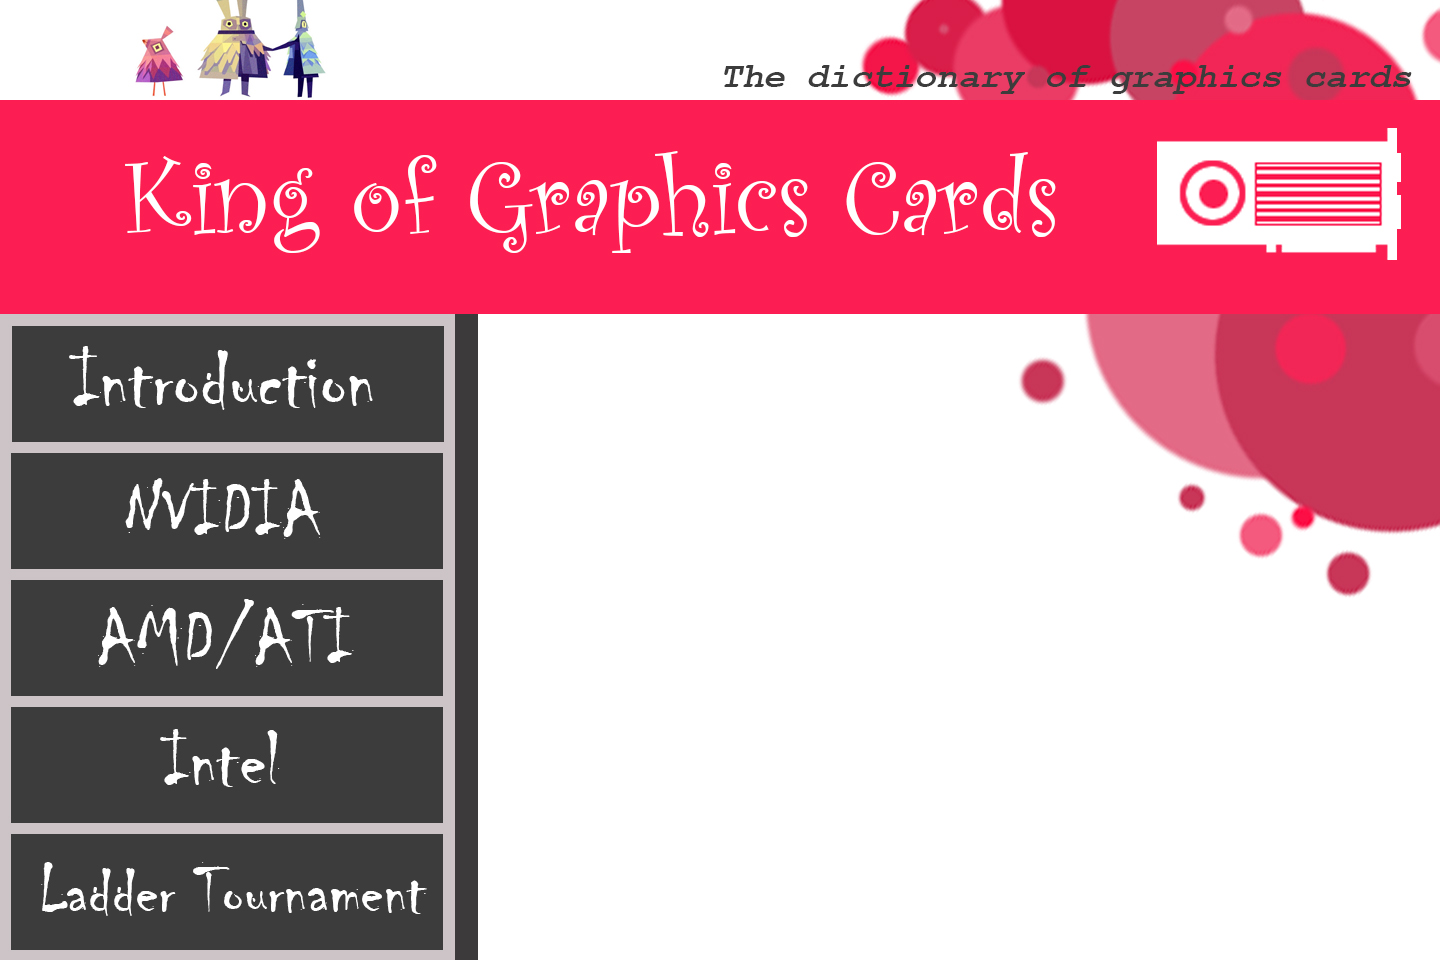
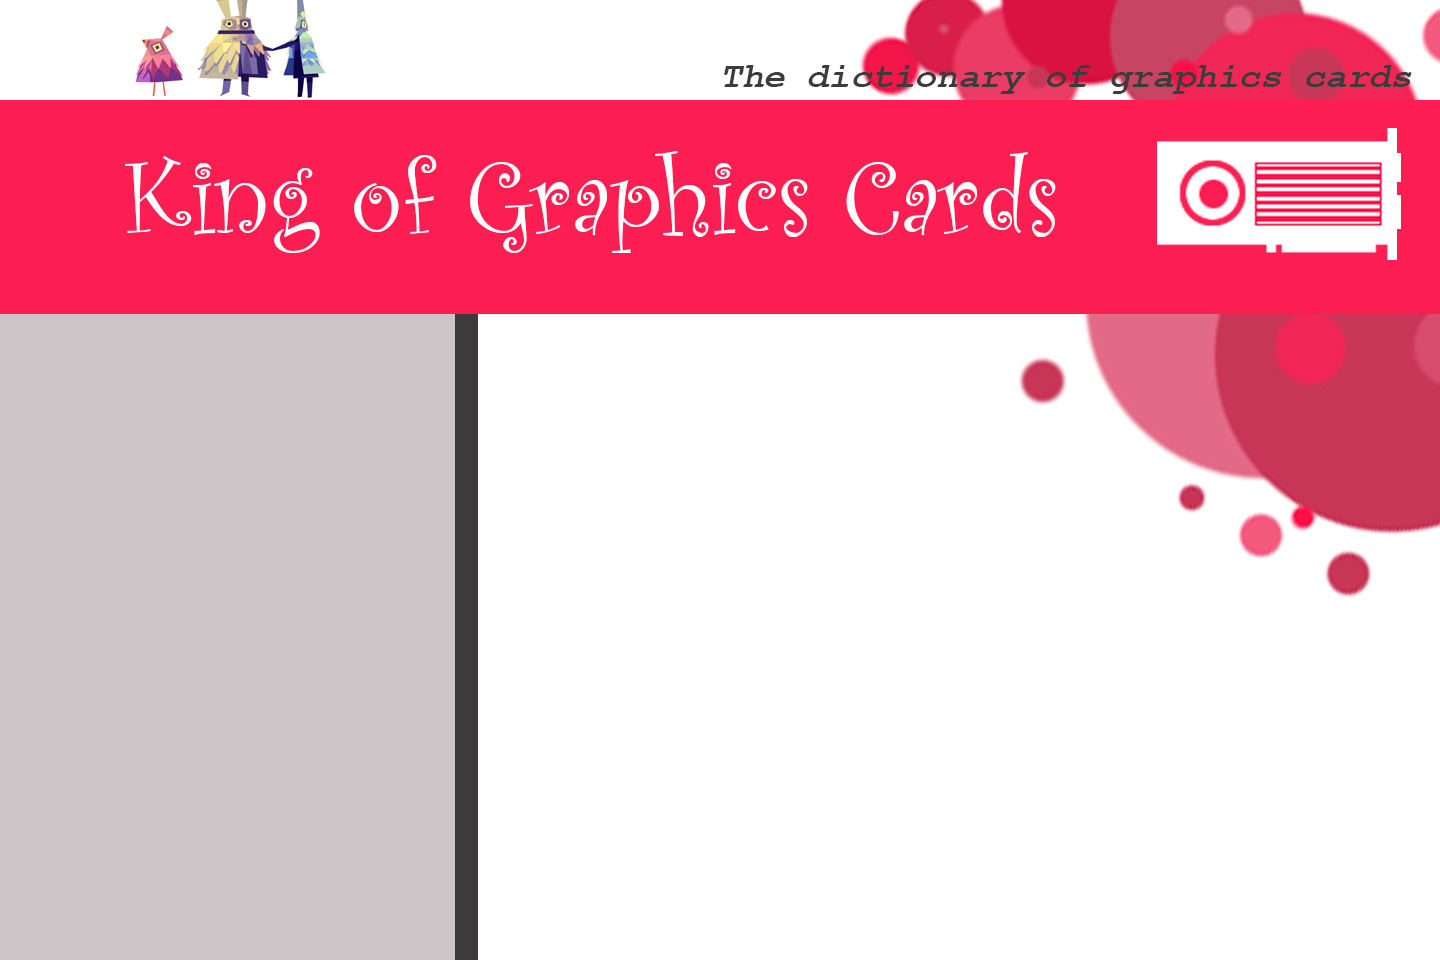
UI changable

Changed region(s): [[0.0, 0.3125, 0.3125, 1.0]]

diff --git a/src/MainFrame.java b/src/MainFrame.java
@@ -1,7 +1,6 @@
 import javax.swing.*;
 import java.awt.*;
-import java.awt.event.MouseEvent;
-import java.awt.event.MouseListener;
+import java.awt.event.*;
 
 /**
  * Created by ZT on 2015/5/30.
@@ -16,6 +15,7 @@ public static void main(String[] args) {
 class MyFrame extends JFrame{
     /** 定义变量 **/
     int chosenBtn=1;
+    float UI_percentX=1f,UI_percentY=1f;
     ImageIcon BG=new ImageIcon(this.getClass().getResource("/BGPic.jpg"));
     ImageIcon IconExit=new ImageIcon(this.getClass().getResource("/Exit.jpg"));
     ImageIcon IconExitOnmove=new ImageIcon(this.getClass().getResource("/ExitOnmove.jpg"));
@@ -36,7 +36,14 @@ class MyFrame extends JFrame{
     ImageIcon IconLadderOnmove=new ImageIcon(this.getClass().getResource("/LadderOnmove.jpg"));
     ImageIcon IconLadderOnclick=new ImageIcon(this.getClass().getResource("/LadderOnclick.jpg"));
 
-    JLabel BGLabel=new JLabel(BG);
+    JLabel BGLabel=new JLabel(BG){
+        @Override
+        public void paintComponent(Graphics g){
+        super.paintComponent(g);
+        Dimension size=this.getParent().getSize();
+        g.drawImage(BG.getImage(),0,0,size.width,size.height,null);
+    }
+    };
 
     JPanel FunctionPanel=new JPanel(null);
 
@@ -51,11 +58,12 @@ class MyFrame extends JFrame{
 
     public MyFrame(){
         setLayout(null);                                                 /**设置Frame属性**/
-        setSize(1440,960);
-        setUndecorated(true);
+        setSize(1440+15,960+40);
         setLocationRelativeTo(null);
+        setResizable(true);
+        setDefaultLookAndFeelDecorated(true);
 
-        BGLabel.setSize(1440,960);                                      /**设置背景Label属性**/
+        BGLabel.setSize(1920,1080);                                      /**设置背景Label属性**/
         BGLabel.setLocation(0,0);
 
         IntroductionBtn.setIcon(IntroductionBtn.onmoveimage);
@@ -79,16 +87,46 @@ class MyFrame extends JFrame{
         getLayeredPane().add(IntelBtn, new Integer(1));
         getLayeredPane().add(LadderBtn, new Integer(1));
         getLayeredPane().add(FunctionPanel,new Integer(2));
+
+        addComponentListener(new ComponentListener() {
+            @Override
+            public void componentResized(ComponentEvent e) {
+                UI_percentX=(float)(getSize().width-15)/1440f;
+                UI_percentY=(float)(getSize().height-40)/960f;
+                LocationSet(UI_percentX,UI_percentY);
+            }
+
+            @Override
+            public void componentMoved(ComponentEvent e) {
+
+            }
+
+            @Override
+            public void componentShown(ComponentEvent e) {
+
+            }
+
+            @Override
+            public void componentHidden(ComponentEvent e) {
+
+            }
+        });
     }
 
     class MyButton extends JButton{                                     /**自定义按钮类**/
         boolean InBtn=false;
-        ImageIcon originimage=null,onmoveimage=null,onclickimage=null;
+        int originLocX,originLocY,originSizeX,originSizeY;
+        ImageIcon originimage=null,onmoveimage=null,onclickimage=null,chosenimage=null;
         public MyButton(int SizeX,int SizeY,int LocationX,int LocationY,final ImageIcon origin,final ImageIcon Onmove,final ImageIcon Onclick,final int Todo)
         {
             originimage=origin;
             onmoveimage=Onmove;
             onclickimage=Onclick;
+            originLocX=LocationX;
+            originLocY=LocationY;
+            originSizeX=SizeX;
+            originSizeY=SizeY;
+            chosenimage=originimage;
             setSize(SizeX,SizeY);
             setLocation(LocationX,LocationY);
             setIcon(origin);
@@ -106,6 +144,7 @@ class MyFrame extends JFrame{
 
                 @Override
                 public void mousePressed(MouseEvent e) {
+                    chosenimage=Onclick;
                     setIcon(Onclick);
 
                 }
@@ -113,6 +152,7 @@ class MyFrame extends JFrame{
                 @Override
                 public void mouseReleased(MouseEvent e) {
                     if(InBtn){
+                        chosenimage=Onmove;
                         setIcon(Onmove);
                         mouseClicked(e);
                     }
@@ -120,12 +160,14 @@ class MyFrame extends JFrame{
 
                 @Override
                 public void mouseEntered(MouseEvent e) {
+                    chosenimage=Onmove;
                     setIcon(Onmove);
                     InBtn=true;
                 }
 
                 @Override
                 public void mouseExited(MouseEvent e) {
+                    chosenimage=origin;
                     setIcon(origin);
                     checkBtn();
                     InBtn=false;
@@ -135,22 +177,55 @@ class MyFrame extends JFrame{
         void checkBtn(){
             dodefault();
             switch(chosenBtn){
-                case 1:IntroductionBtn.setIcon(IntroductionBtn.onmoveimage);break;
-                case 2:NvidiaBtn.setIcon(NvidiaBtn.onmoveimage);break;
-                case 3:AMDBtn.setIcon(AMDBtn.onmoveimage);break;
-                case 4:IntelBtn.setIcon(IntelBtn.onmoveimage);break;
-                case 5:LadderBtn.setIcon(LadderBtn.onmoveimage);break;
+                case 1:IntroductionBtn.changeOnmoveIcon();break;
+                case 2:NvidiaBtn.changeOnmoveIcon();break;
+                case 3:AMDBtn.changeOnmoveIcon();break;
+                case 4:IntelBtn.changeOnmoveIcon();break;
+                case 5:LadderBtn.changeOnmoveIcon();break;
             }
         }
 
         void dodefault(){
-            IntroductionBtn.setIcon(IntroductionBtn.originimage);
-            NvidiaBtn.setIcon(NvidiaBtn.originimage);
-            AMDBtn.setIcon(AMDBtn.originimage);
-            IntelBtn.setIcon(IntelBtn.originimage);
-            LadderBtn.setIcon(LadderBtn.originimage);
+            IntroductionBtn.setDefault();
+            NvidiaBtn.setDefault();
+            AMDBtn.setDefault();
+            IntelBtn.setDefault();
+            LadderBtn.setDefault();
+        }
+
+        public void setDefault(){
+            setIcon(originimage);
+            chosenimage=originimage;
+        }
+
+        public void changeOnmoveIcon(){
+            setIcon(onmoveimage);
+            chosenimage=onmoveimage;
+        }
+        public void changeSizeandLocation(float i,float j){
+            setLocation((int)((float)originLocX*i),(int)((float) originLocY*j));
+            setSize((int) ((float) originSizeX * i), (int) ((float) originSizeY * j));
+        }
+
+        @Override
+        public void paintComponent(Graphics g){
+            super.paintComponent(g);
+            Dimension btnsize=getSize();
+            g.drawImage(chosenimage.getImage(), 0, 0, btnsize.width, btnsize.height, null);
         }
     }
 
+    private void LocationSet(float i,float j){
+        ExitBtn.changeSizeandLocation(i,j);
+        IntroductionBtn.changeSizeandLocation(i,j);
+        NvidiaBtn.changeSizeandLocation(i,j);
+        AMDBtn.changeSizeandLocation(i,j);
+        IntelBtn.changeSizeandLocation(i,j);
+        LadderBtn.changeSizeandLocation(i, j);
+        FunctionPanel.setLocation((int) (540f * i), (int) (360f * j));
+        FunctionPanel.setSize((int) (850f * i), (int) (500f * j));
+        IntroductionText.setSize((int)(850f*i),(int)(500f*j));
+        IntroductionText.setFont(new Font("微软雅黑", Font.BOLD, (int)(36f*java.lang.StrictMath.sqrt(i*j))));
+    }
 }
 
